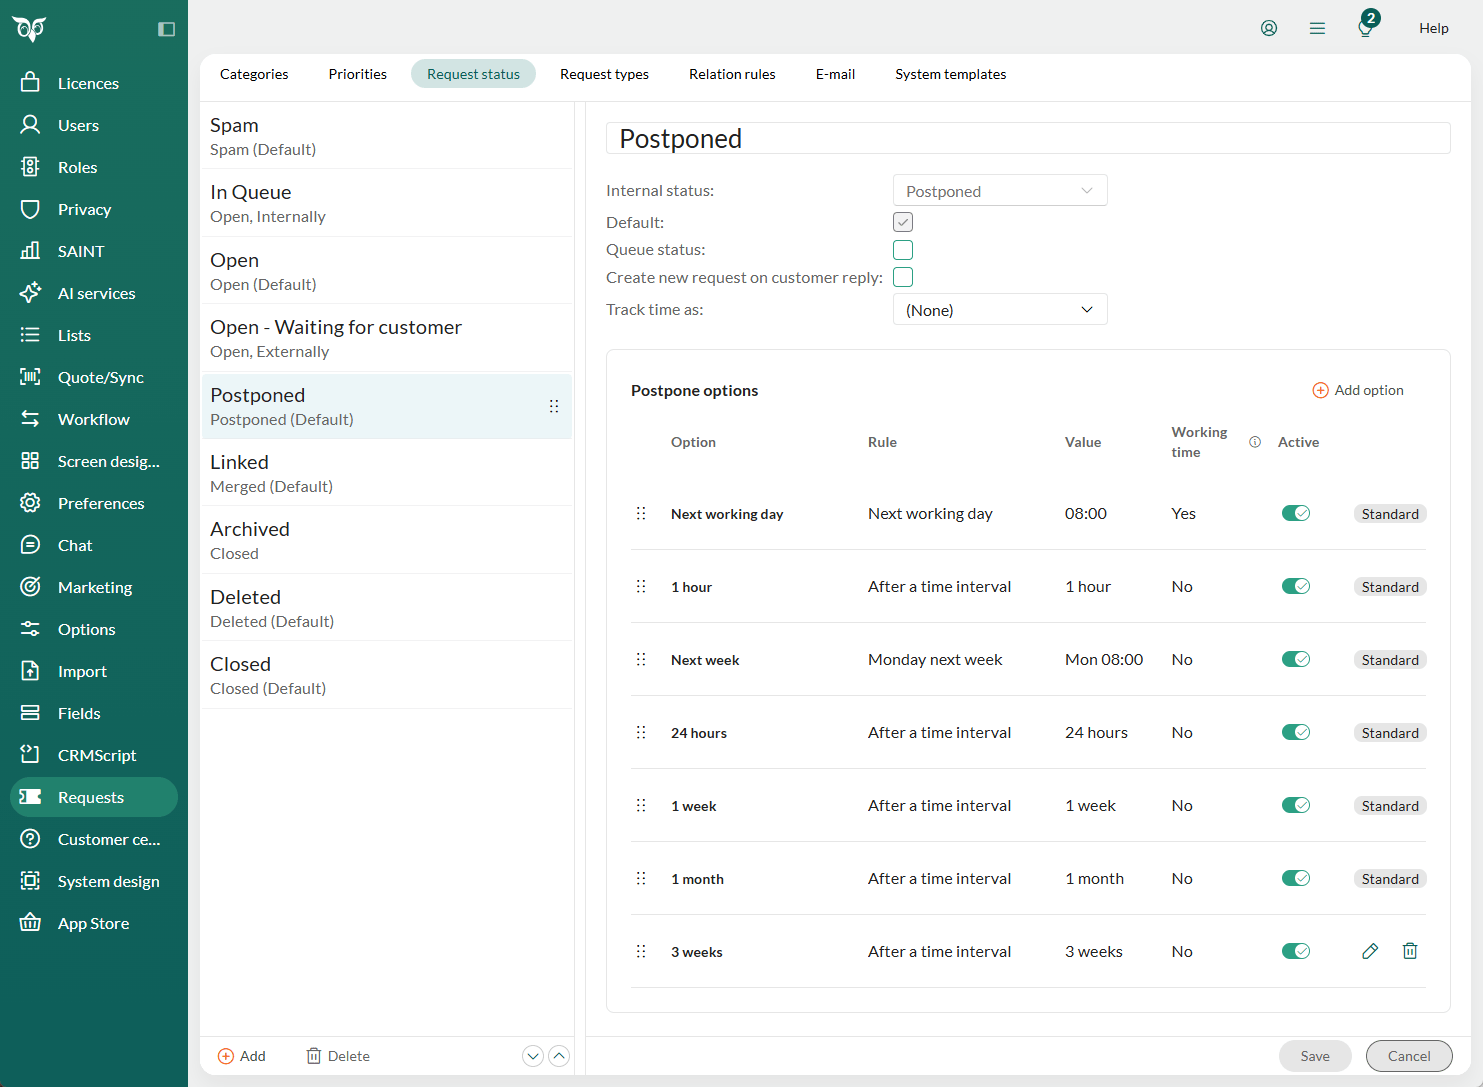
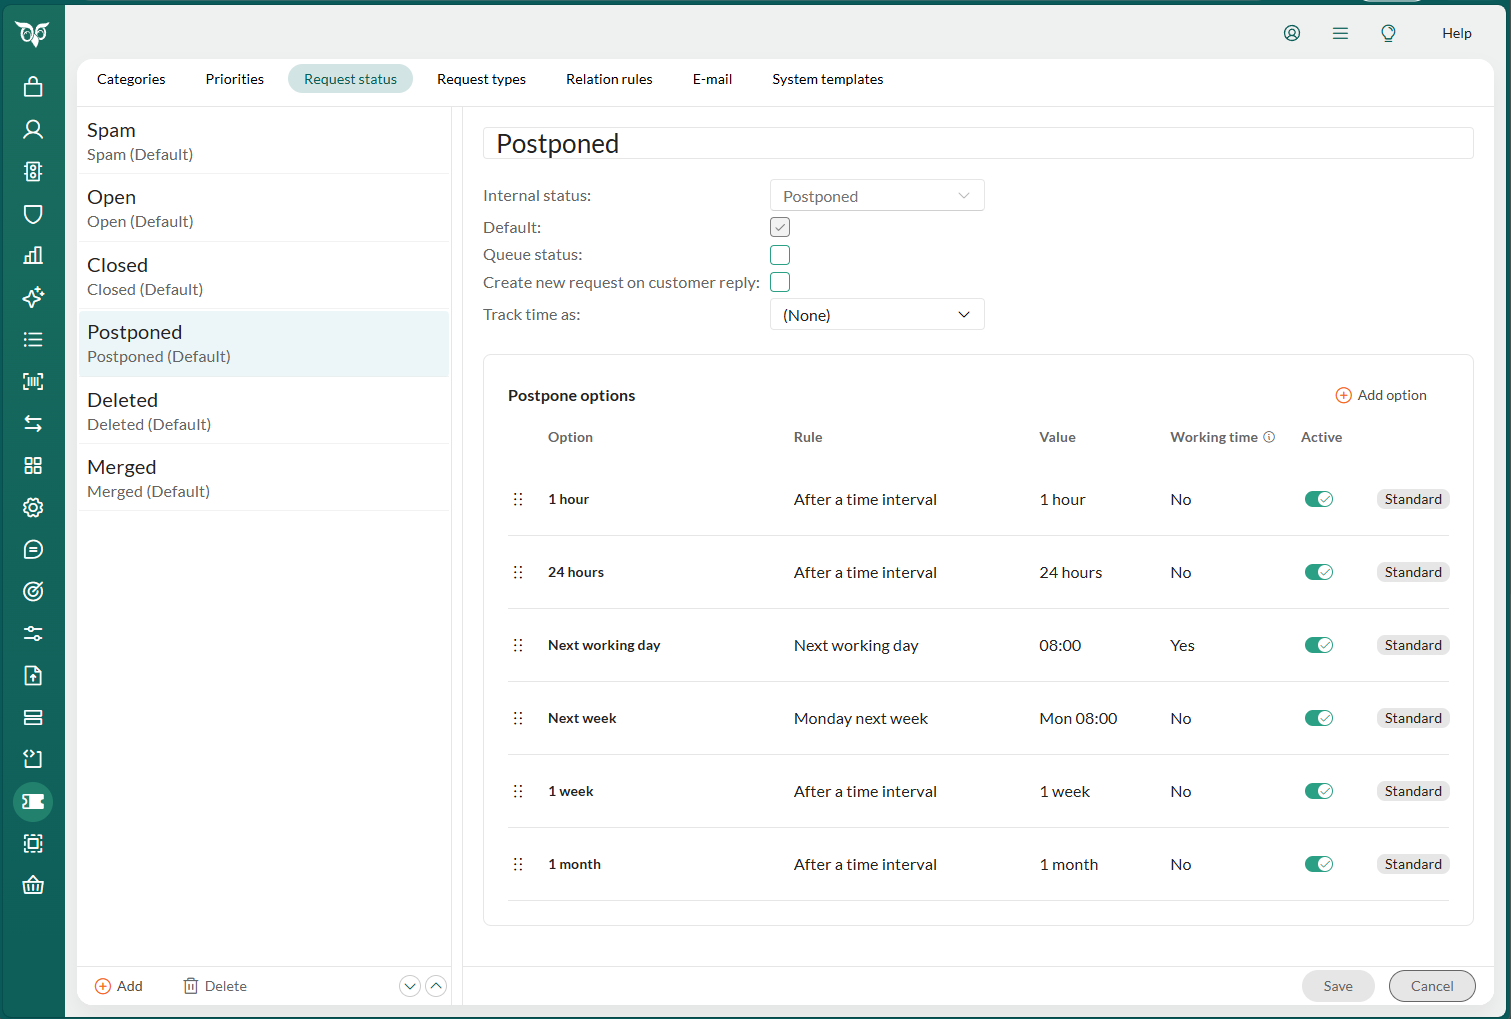
Add postpone option dialog shot and default options shot (#704)

diff --git a/en/request/admin/status/create.md b/en/request/admin/status/create.md
@@ -61,16 +61,24 @@ Each status with internal status **Postponed** has its own list of options that 
 
 1. Under **Postpone options**, click **Add option**.
 
-1. Enter a name and choose a rule:
+1. In the **Name** field, enter the name users see in the postpone menu.
 
-    * **After a time interval:** 1 to 999 hours, days, weeks, or months. Optionally skip weekends and non-working hours.
+1. In the **Type** list, choose how the time is calculated:
+
+    * **After a time interval:** Enter an **Amount** from 1 to 999 and select a **Unit**: hours, days, weeks, or months. Check **Skip weekends and non-working hours** to count only working time.
     * **Next working day:** At a chosen time.
     * **Weekday next week:** A chosen weekday at a chosen time.
 
     The time defaults to 08:00.
+
+    ![Add postpone option dialog with Name, Type, Amount, and Unit -screenshot][img1]
+
+1. Click **Save** to add the option to the list.
 
 1. Drag the options to set their order in the menu.
 
 1. Click **Save**. The options are saved with the status.
 
 [1]: #add-postpone-option
+
+[img1]: /media/loc/en/admin/admin-requests-request-status-add-postpone-option.png
